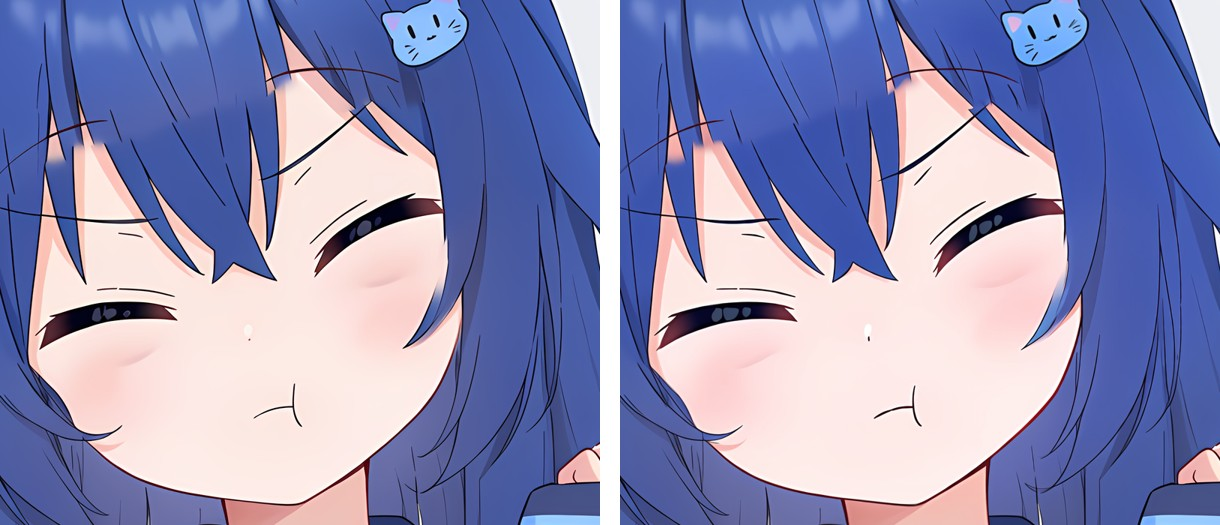
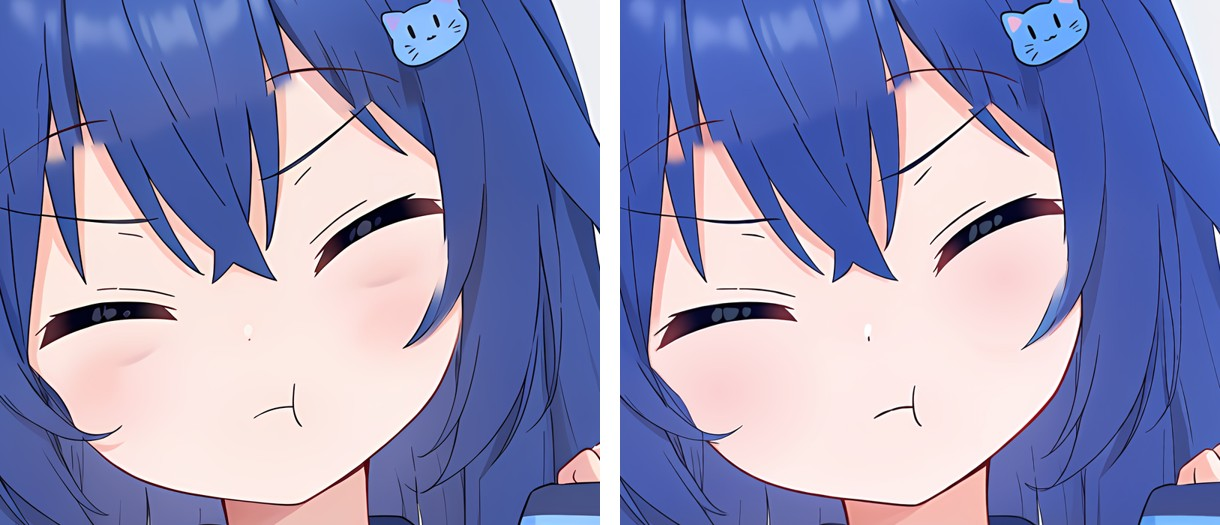
Pout face: whole face from the redraw (no ghosted cheek line), both cheeks repainted as flat cel skin with a soft blush
Claude-Session: https://claude.ai/code/session_01GKXVvPC41YyqGb5GSzVgnW

diff --git a/pixel/vtfix.py b/pixel/vtfix.py
@@ -14,20 +14,50 @@ ROOT = Path(__file__).parent.parent
 FINAL = ROOT / "art/generated/vtuber3/final/pout.png"
 FIX = ROOT / "art/generated/vtuber3/fix/pout_0.30_69002.png"
 BOX = (560, 380)                     # crop origin in the 2048 frame (fix/pout_crop.png)
-FACE = (90, 240, 900, 930)           # ellipse in crop px: eyes, cheeks, mouth
+EDGE = 70                            # feather width at the crop's edges (in hair / background, where lines are busy)
+
+
+# cheeks (crop px): the redraw's puffed cheeks carry soft airbrushed contour lines that read as smudges (owner
+# 2026-11-05: "both cheeks look painted on"). Inside these ellipses every skin pixel is repainted as flat cel skin with
+# one soft round blush, as the other expressions are drawn; dark line art is kept.
+CHEEKS = [((232, 772), (150, 125)), ((612, 620), (120, 100))]
+
+
+def flat_cheeks(img):
+    a = np.asarray(img).astype(np.float32)
+    H, W = a.shape[:2]
+    yy, xx = np.mgrid[0:H, 0:W].astype(np.float32)
+    r, g, b = a[..., 0], a[..., 1], a[..., 2]
+    lum = a.mean(-1)
+    dark = lum < 170
+    from scipy import ndimage
+    near_line = ndimage.binary_dilation(dark, iterations=2)
+    skinish = (r > 215) & (r > b + 4) & ~near_line
+    base = np.median(a[(r > 240) & (g > 225) & (r > b + 8) & (yy > 400) & (yy < 900)], 0)
+    blush = np.array((250, 188, 196), np.float32)
+    for (cx, cy), (rx, ry) in CHEEKS:
+        d = np.sqrt(((xx - cx) / rx) ** 2 + ((yy - cy) / ry) ** 2)
+        inside = (d < 1.0) & skinish
+        w = np.clip(1 - d, 0, 1) ** 1.2 * 0.55                 # soft round blush, strongest in the middle
+        flat = base[None, None, :] * (1 - w[..., None]) + blush[None, None, :] * w[..., None]
+        edge = np.clip((1.0 - d) / 0.15, 0, 1)[..., None]       # blend into the untouched skin at the rim
+        a[inside] = (flat * edge + a * (1 - edge))[inside]
+    return Image.fromarray(a.clip(0, 255).astype(np.uint8))
 
 
 def build():
     base = Image.open(FINAL).convert("RGB")
     crop = base.crop((BOX[0], BOX[1], BOX[0] + 1024, BOX[1] + 1024))
-    red = Image.open(FIX).convert("RGB").resize((1024, 1024))
+    red = flat_cheeks(Image.open(FIX).convert("RGB").resize((1024, 1024)))
     a, b = np.asarray(crop).astype(np.float32), np.asarray(red).astype(np.float32)
     skin = (a[..., 0] > 235) & (a[..., 0] > a[..., 2] + 15) & (b[..., 0] > 235)
-    b[skin] += np.median(a[skin] - b[skin], 0) * 0.5         # half-way: keep the cleaner tone, no visible seam
+    b[skin] += np.median(a[skin] - b[skin], 0)              # the frame's skin tone (the seam never crosses skin)
     red = Image.fromarray(b.clip(0, 255).astype(np.uint8))
+    # the whole face comes from the redraw (owner 2026-11-05: blending two drawings across the cheek left a ghosted,
+    # painted-on outline); the seam lies at the crop's edges, in the hair and background, feathered there only
     m = Image.new("L", (1024, 1024), 0)
-    ImageDraw.Draw(m).ellipse(FACE, fill=255)
-    m = m.filter(ImageFilter.GaussianBlur(28))
+    ImageDraw.Draw(m).rectangle((EDGE, EDGE, 1023 - EDGE, 1023 - EDGE), fill=255)
+    m = m.filter(ImageFilter.GaussianBlur(EDGE / 2.5))
     out = base.copy()
     out.paste(Image.composite(red, crop, m), BOX)
     out.save(FINAL)
